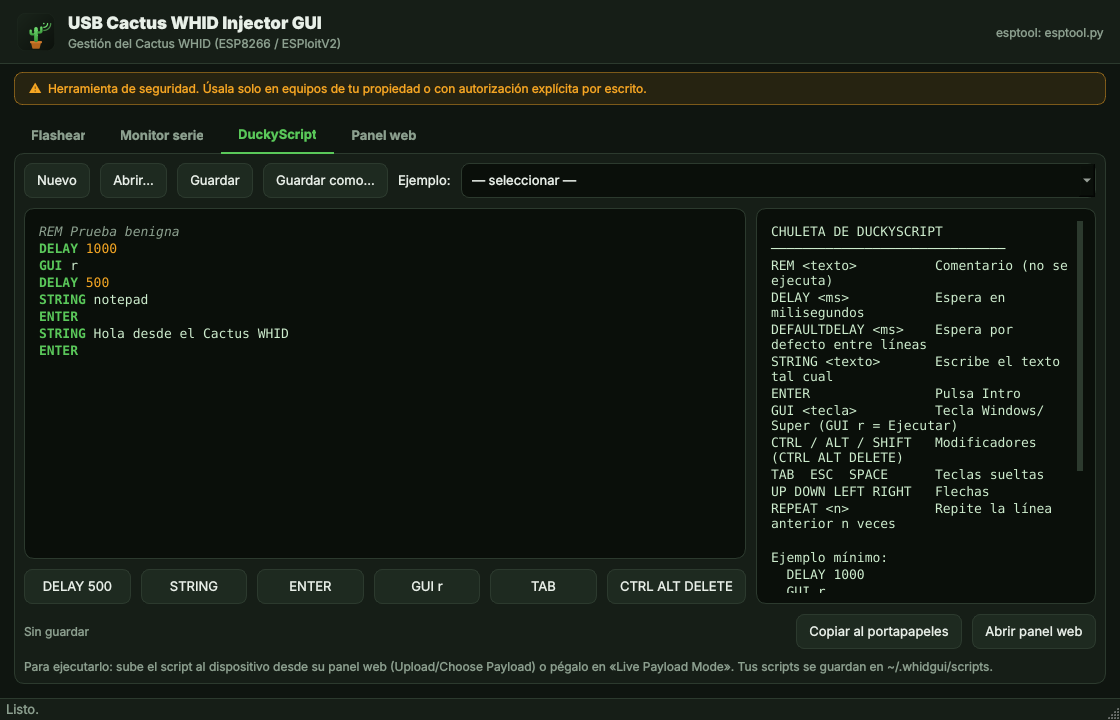
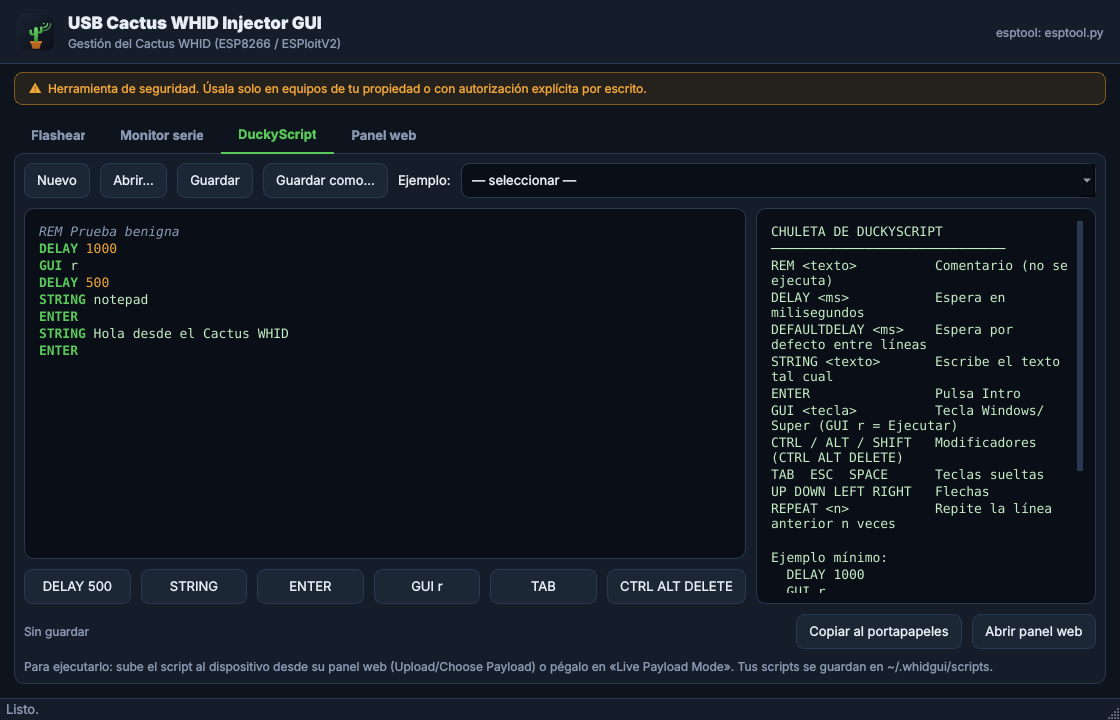
Tema: base neutra compartida con el GUI del Proxmark, acento verde
Alinea fondo, paneles, bordes, consola y estados con la paleta del
proxmark-easy-GUI para que sean la misma familia visual, manteniendo el
verde como color de acento del WHID. Icono y capturas actualizados.

diff --git a/whidgui/theme.py b/whidgui/theme.py
@@ -1,18 +1,20 @@
 """Hoja de estilo (QSS) — tema oscuro con acento verde cactus."""
 
-BG = "#0f1510"
-PANEL = "#161e17"
-PANEL_2 = "#1e2a20"
-BORDER = "#2c3a2e"
-TEXT = "#e8f0e8"
-MUTED = "#8ca08f"
-ACCENT = "#5ac85a"       # verde cactus
+# Base neutra compartida con el GUI del Proxmark (misma familia visual);
+# aquí el acento es verde en lugar de azul.
+BG = "#0e141d"           # fondo general
+PANEL = "#151d2a"        # paneles
+PANEL_2 = "#1c2736"      # elementos elevados
+BORDER = "#2a3850"
+TEXT = "#e8eef7"
+MUTED = "#8a99b3"
+ACCENT = "#5ac85a"       # verde cactus (color principal de esta app)
 ACCENT_DK = "#46a846"
-CONSOLE_BG = "#0a0f0a"
-CONSOLE_TEXT = "#cdeccd"
-OK = "#5ac85a"
-BAD = "#ef5350"
-WARN = "#f5a623"
+CONSOLE_BG = "#0a0f17"
+CONSOLE_TEXT = "#c6edc6"   # verde claro para la consola
+OK = "#5ac85a"           # "conectado" en el verde principal
+BAD = "#ef5f5f"          # error
+WARN = "#f0a63a"         # aviso
 
 STYLESHEET = f"""
 * {{
@@ -53,15 +55,15 @@ QPushButton {{
     padding: 8px 12px;
     color: {TEXT};
 }}
-QPushButton:hover {{ border-color: {ACCENT}; background: #26352a; }}
-QPushButton:pressed {{ background: #2d3f31; }}
+QPushButton:hover {{ border-color: {ACCENT}; background: #233041; }}
+QPushButton:pressed {{ background: #2a3a4d; }}
 QPushButton:disabled {{ color: {MUTED}; background: {PANEL}; }}
 
 QPushButton#primary {{
-    background: {ACCENT}; color: #07130a; font-weight: 700; border: none;
+    background: {ACCENT}; color: #06120a; font-weight: 700; border: none;
 }}
 QPushButton#primary:hover {{ background: {ACCENT_DK}; }}
-QPushButton#primary:disabled {{ background: #2f4a33; color: #6f8a74; }}
+QPushButton#primary:disabled {{ background: #26374f; color: #71839e; }}
 
 QPushButton#danger {{
     background: transparent; border: 1px solid {BAD}; color: {BAD};
